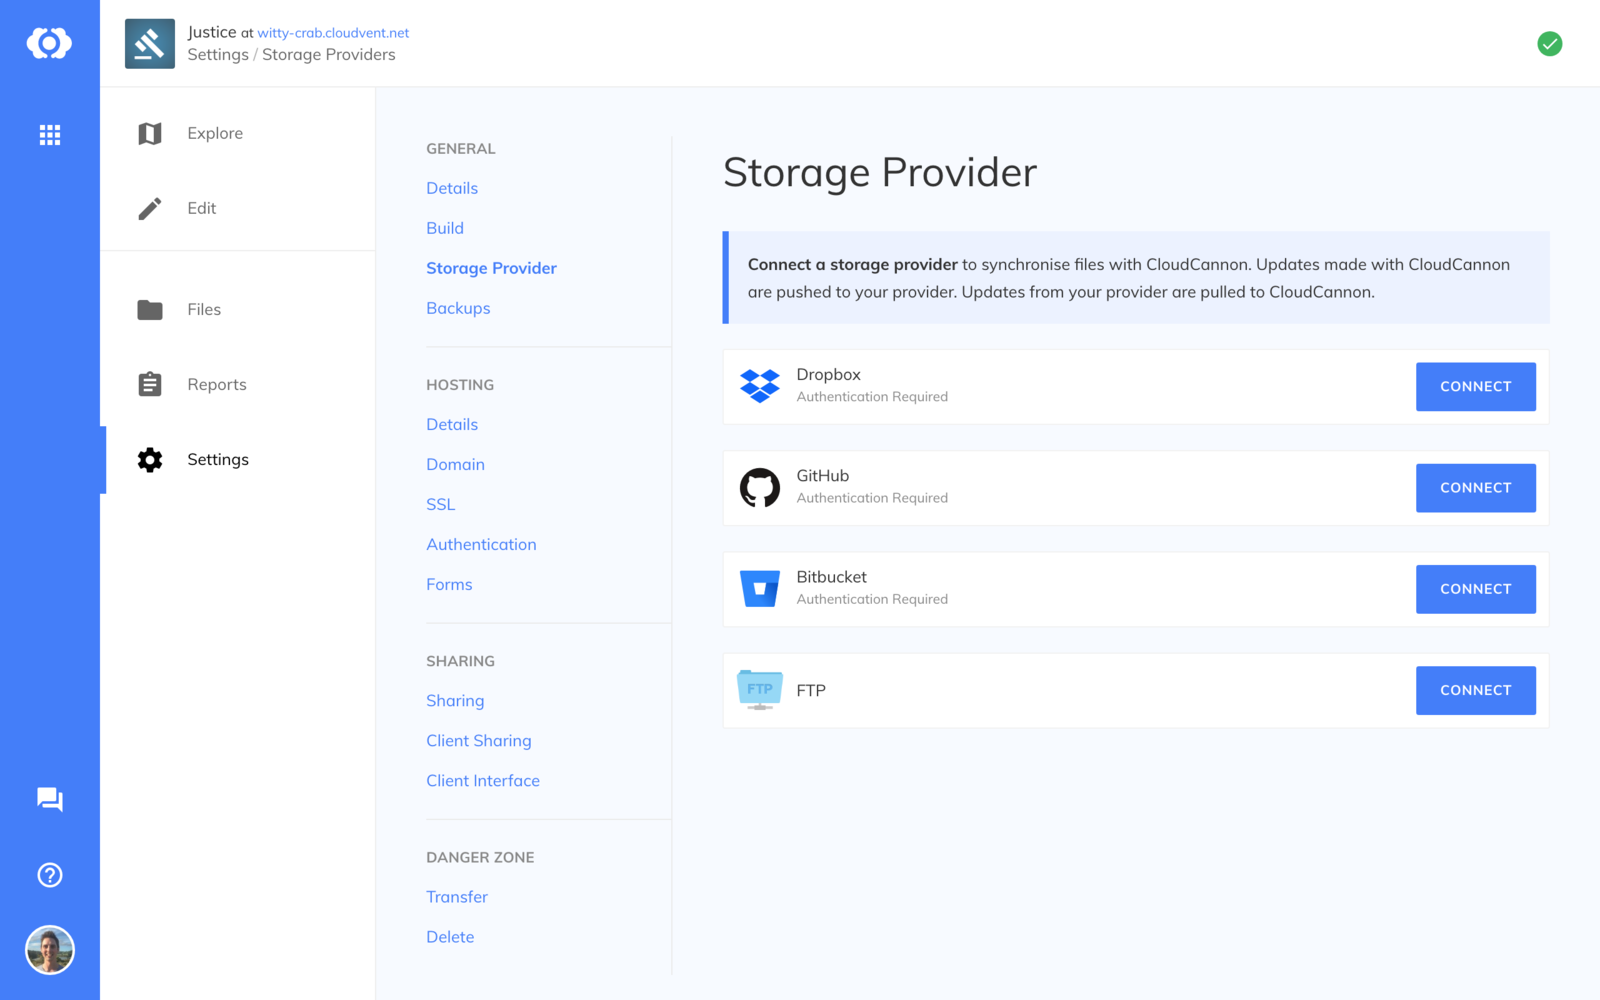
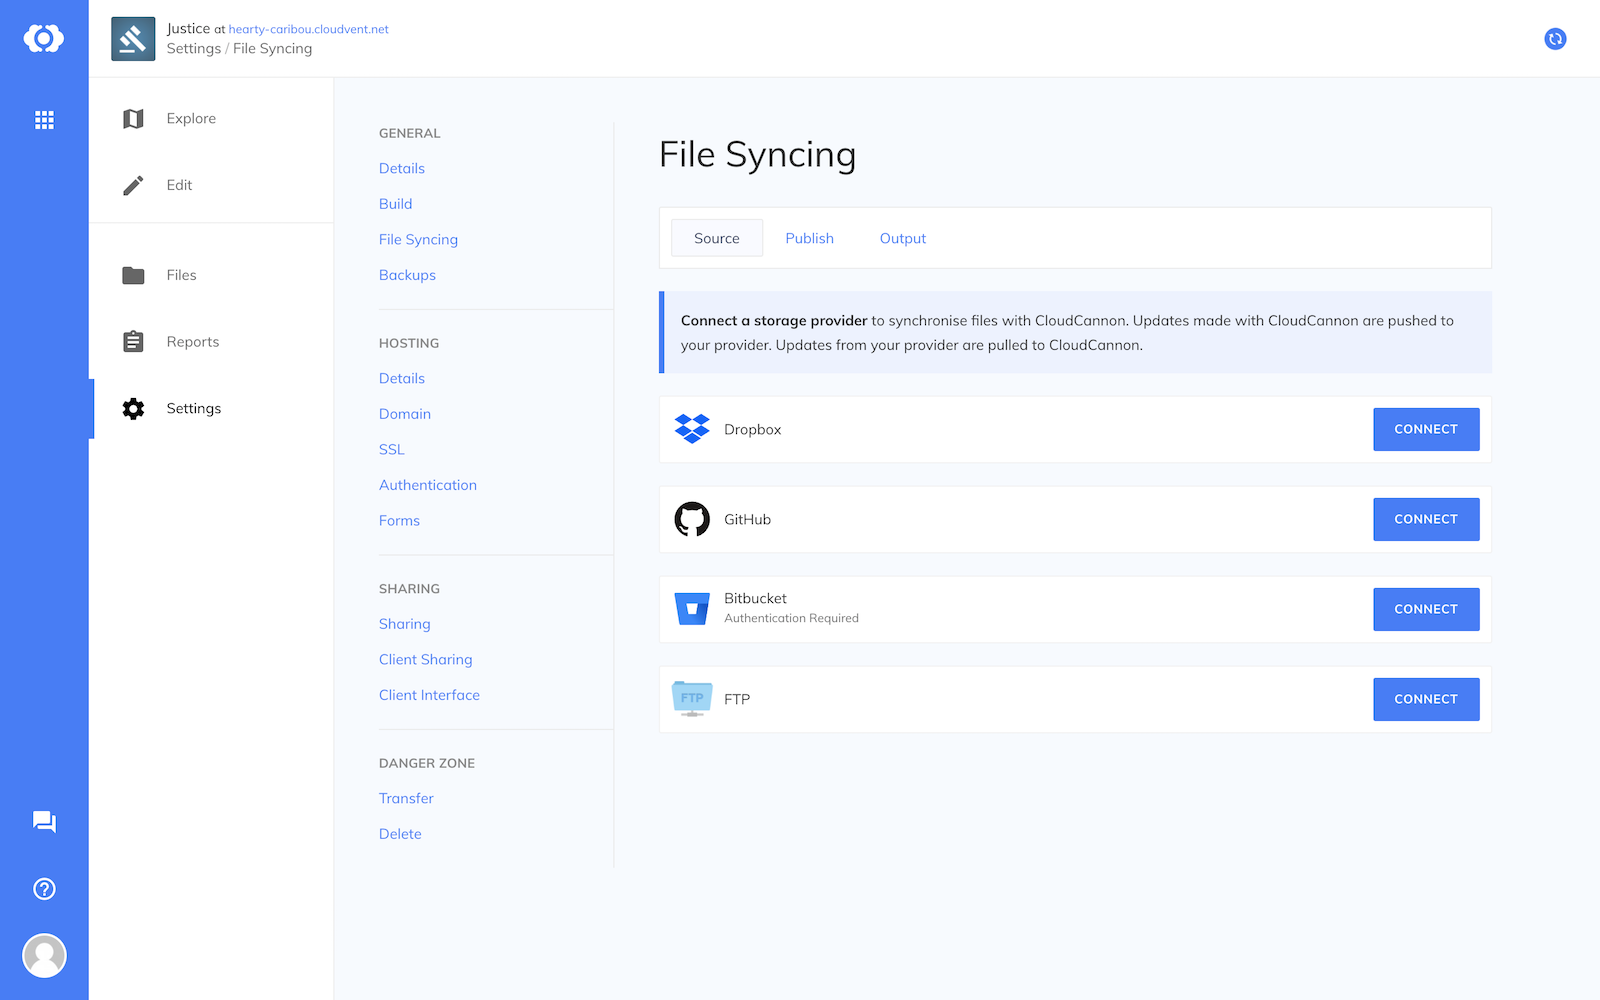
Latest syncing updates incl. outputs

diff --git a/_docs/syncing/publishing.md b/_docs/syncing/publishing.md
@@ -13,7 +13,7 @@ Publishing allows editors to merge changes from one branch to another. You can c
 
 To connect a publish branch and enable publishing, follow these instructions:
 
-Go to *Site Settings* / *Storage Providers* and click **Add Publish Branch** next to GitHub.
+Go to *Site Settings* / *File Syncing* / *Publish* and click **Add Publish Branch** next to GitHub.
 
 ![Storage Providers interface](/images/syncing/publish/no-publish-branch.png){: srcset="/images/syncing/publish/no-publish-branch.png 800w, /images/syncing/publish/no-publish-branch@2x.png 1600w"}
 {: .has-screenshot}
@@ -31,7 +31,7 @@ All editors will have access to the *Publish* option in the sidebar. Clicking **
 
 ### Removing a publish branch
 
-Go to *Site Settings* / *Storage Providers* and click **Remove Publish Branch** next to GitHub.
+Go to *Site Settings* / *File Syncing* / *Publish* and click **Remove Publish Branch** next to GitHub.
 
 ![Storage Providers interface](/images/syncing/publish/with-publish-branch.png){: srcset="/images/syncing/publish/with-publish-branch.png 800w, /images/syncing/publish/with-publish-branch@2x.png 1600w"}
 {: .has-screenshot}
@@ -45,7 +45,7 @@ The publish mode determines if publish is a direct merge or a pull request. Merg
 
 To change the publish mode for a GitHub-connected site:
 
-1. Go to *Site Settings* / *Storage Providers*
+1. Go to *Site Settings* / *File Syncing* / *Publish*
 2. Select *Merge* or *Pull Request*
 3. Click **Change Publish Mode**
 

diff --git a/_docs/syncing/output.md b/_docs/syncing/output.md
@@ -1,0 +1,25 @@
+---
+title: Output
+category: File Syncing
+order: 4
+requirements:
+  build: Any
+  plan: Basic
+  hosting: Any
+---
+
+Connecting a storage provider to output allows you to access the compiled output of a site. To connect an output branch, follow these instructions:
+
+Go to *Site Settings* / *File Syncing* / *Output* and click **Connect** next to your chosen provider. Providers will be configured once selected.
+
+![Storage Providers interface](/images/syncing/output/storage-providers.png){: srcset="/images/syncing/output/storage-providers.png 800w, /images/syncing/output/storage-providers@2x.png 1600w"}
+{: .has-screenshot}
+
+Once connected the compiled site will replace the contents of your provider. This process will repeat after every build.
+
+### Removing an output
+
+Go to *Site Settings* / *File Syncing* / *Output* and click **Remove**.
+
+![Output interface](/images/syncing/output/github.png){: srcset="/images/syncing/output/github.png 800w, /images/syncing/output/github@2x.png 1600w"}
+{: .has-screenshot}

diff --git a/_docs/syncing/bitbucket.md b/_docs/syncing/bitbucket.md
@@ -15,7 +15,7 @@ Connecting Bitbucket allows you to work on your websites locally and have the ch
 
 To connect a Bitbucket repository and start syncing files, follow these instructions:
 
-Go to *Site Settings* / *Storage Providers* and click **Connect** next to Bitbucket.
+Go to *Site Settings* / *File Syncing* and click **Connect** next to Bitbucket.
 
 ![Storage Providers interface](/images/syncing/storage-providers.png){: srcset="/images/syncing/storage-providers.png 800w, /images/syncing/storage-providers@2x.png 1600w"}
 {: .has-screenshot}

diff --git a/_docs/syncing/dropbox.md b/_docs/syncing/dropbox.md
@@ -12,7 +12,7 @@ Connecting Dropbox allows you to work on your websites locally and have the chan
 
 To connect a Dropbox account and start syncing files, follow these instructions:
 
-Go to *Site Settings* / *Storage Providers* and click **Connect** next to Dropbox.
+Go to *Site Settings* / *File Syncing* and click **Connect** next to Dropbox.
 
 ![Storage Providers interface](/images/syncing/storage-providers.png){: srcset="/images/syncing/storage-providers.png 800w, /images/syncing/storage-providers@2x.png 1600w"}
 {: .has-screenshot}

diff --git a/_docs/syncing/github.md b/_docs/syncing/github.md
@@ -12,7 +12,7 @@ Connecting Bitbucket allows you to work on your websites locally and have the ch
 
 To connect a GitHub repository and start syncing files, follow these instructions:
 
-Go to *Site Settings* / *Storage Providers* and click **Connect** next to GitHub.
+Go to *Site Settings* / *File Syncing* and click **Connect** next to GitHub.
 
 ![Storage Providers interface](/images/syncing/storage-providers.png){: srcset="/images/syncing/storage-providers.png 800w, /images/syncing/storage-providers@2x.png 1600w"}
 {: .has-screenshot}
